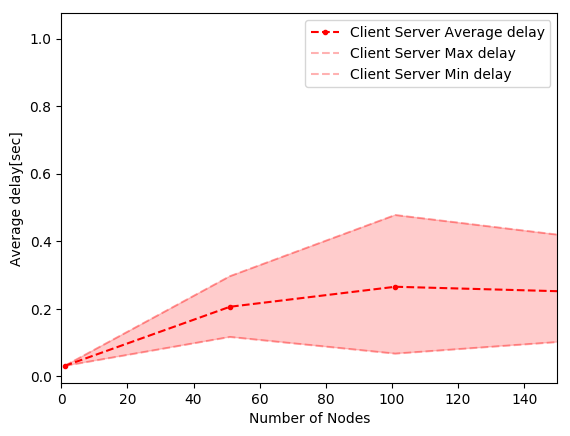
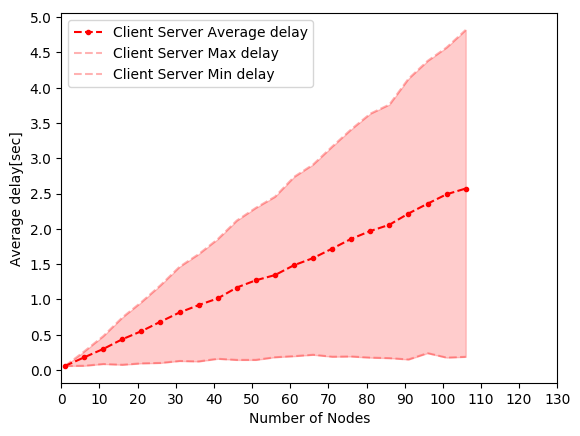
Transformed ipfs duplicate plotter into a program with cli. Probably not the best code, too many nested loops

diff --git a/evaluation_scripts/comparison_plotter.py b/evaluation_scripts/comparison_plotter.py
@@ -7,6 +7,12 @@ import argparse
 
 save_dir = './evaluation_scripts/Plots/'
 
+def linear_reg(xx,yy):
+    A = np.vstack([xx, np.ones(len(xx))]).T
+    m, c = np.linalg.lstsq(A, yy)[0]
+    y_fit = m*np.array(xx).astype(float) + c
+    return y_fit
+
 def parse_single_line(line, filepath, prv_users):
     d = json.loads(line)
     users = int(d['Users'])
@@ -41,11 +47,16 @@ def parse_file(filepath):
     print(user_no)
     return user_no, delay_avg, delay_std, delay_max, delay_min, results
 
-def plot(filepath,label,colour_,limit):
+def plot(filepath,label,colour_,limit, trendline):
     user_no, delay_avg, delay_std, delay_max, delay_min,_ = parse_file(filepath)
-    plt.plot(user_no[:limit], delay_avg[:limit],'o--', color=colour_, label=label + " Average delay",ms=3) #, yerr = delay_std, fmt='o' )
-    plt.plot(user_no[:limit], delay_max[:limit],'--', color=colour_,  label=label + " Max delay",alpha=0.3) 
-    plt.plot(user_no[:limit], delay_min[:limit],'--', color=colour_,label=label + " Min delay",alpha=0.3) 
+    if trendline:
+        y_trendline = linear_reg(user_no,delay_avg)
+        print(y_trendline)
+        plt.plot(user_no, y_trendline,'-', color=colour_, alpha=0.2, label= label + " Trendline")
+
+    plt.plot(user_no[:limit], delay_avg[:limit], 'o--', color=colour_, label=label + " Average delay",ms=3) #, yerr = delay_std, fmt='o' )
+    plt.plot(user_no[:limit], delay_max[:limit], '--',  color=colour_, label=label + " Max delay",alpha=0.3) 
+    plt.plot(user_no[:limit], delay_min[:limit], '--',  color=colour_, label=label + " Min delay",alpha=0.3) 
     plt.fill_between(user_no[:limit],
                      delay_max[:limit],
                      delay_min[:limit],
@@ -54,6 +65,7 @@ def plot(filepath,label,colour_,limit):
     plt.locator_params(nbins=14)
     plt.xlabel('Number of Nodes')
     plt.ylabel('Average delay[sec]')
+    print(type(limit))
     plt.xlim(0,limit)
 
 
@@ -65,14 +77,20 @@ def statistics(filepath):
 
 
 ipfs_path = './evaluation_scripts/datasets/ipfs_results.json'
-server_path = './evaluation_scripts/datasets/server_results_new.json'
+server_path = './evaluation_scripts/datasets/server_results_single.json'
+server_path_multi = './evaluation_scripts/datasets/server_results_multi.json'
 bittorent_path = './evaluation_scripts/datasets/bittorent_results.json'
+ipfs_with_delay = './evaluation_scripts/datasets/ipfs_duplicates_lat.json'
 
-# USAGE: ./evaluation_scripts/results_parser.py -o ipfs-vs-BitTorrent -IPFS -BitTorrent -save
+# USAGE: ./evaluation_scripts/results_parser.py -o ipfs-vs-BitTorrent -IPFS -BitTorrent
 if __name__ == '__main__':
     parser = argparse.ArgumentParser(description='Command Line Interface')
     parser.add_argument('-o', type=str, nargs='?',
                         help="Save output to the specified directory")
+    parser.add_argument('-d',action='store_true', default = False,
+                        help="Show simulation with lattency added")
+    parser.add_argument('-trend',action='store_true', default = False,
+                        help="Show performance trendline") 
     parser.add_argument('-IPFS', action='store_true', default = False,
                     help='Show IPFS performance')
     parser.add_argument('-user_limit', type=int, nargs='?', default = 120,
@@ -87,15 +105,18 @@ if __name__ == '__main__':
     fig, ax1 = plt.subplots()
 
     if args.IPFS:
-        plot(ipfs_path, "IPFS",'blue',args.user_limit)
+        plot(ipfs_path, "IPFS",'blue',args.user_limit, args.trend)
+        if args.d:
+            plot(ipfs_with_delay, "IPFS Latency",'green',args.user_limit, args.trend)
         if args.statistics:
             statistics(ipfs_path)
     if args.BitTorrent:
-        plot(bittorent_path,"BitTorrent",'orange',args.user_limit)
+        plot(bittorent_path,"BitTorrent",'orange',args.user_limit, args.trend)
         if args.statistics:
             statistics(bittorent_path)
     if args.client_server:
-        plot(server_path,"Client Server",'red',args.user_limit)
+        plot(server_path,"Client Server",'red',args.user_limit, args.trend)
+        #plot(server_path_multi,"Client Server Multithreaded",'green', args.user_limit)
 
     plt.legend()
     if args.o != None:

diff --git a/evaluation_scripts/ipfs_duplicate_plotter.py b/evaluation_scripts/ipfs_duplicate_plotter.py
@@ -1,6 +1,7 @@
 import matplotlib.pyplot as plt
 import json
 import numpy as np
+import argparse
 
 save_dir = './evaluation_scripts/Plots/'
 
@@ -21,27 +22,45 @@ def parse_file(file):
     return users, duplicate_blocks
 
 def linear_reg(xx,yy):
-    A = np.vstack([x, np.ones(len(x))]).T
-    m, c = np.linalg.lstsq(A, Y)[0]
-    y_fit = m*np.array(x).astype(float) + c
+    A = np.vstack([xx, np.ones(len(xx))]).T
+    m, c = np.linalg.lstsq(A, yy)[0]
+    y_fit = m*np.array(xx).astype(float) + c
     return y_fit
 
+# Usage: evaluation_scripts/ipfs_duplicate_plotter.py -d -trend
+if __name__ == '__main__':
+    parser = argparse.ArgumentParser(description='Command Line Interface')
+    parser.add_argument('-o', type=str, nargs='?',
+                        help="Save output to the specified directory")
+    parser.add_argument('-d',action='store_true', default = False,
+                        help="Show simulation with lattency added")
+    parser.add_argument('-trend',action='store_true', default = False,
+                        help="Show performance trendline") 
 
-x,Y = parse_file('./evaluation_scripts/datasets/ipfs_duplicates_sim.json')
+    args = parser.parse_args()
+    fig, ax1 = plt.subplots()
+    # If you want to plot the dataset with latency
+    if args.d:
+        xx,YY = parse_file('./evaluation_scripts/datasets/ipfs_duplicates_lat.json')
+        plt.plot(xx,YY,'x', color='orange', label='Latency Data Points')
+        # If you want to add a trendline
+        if args.trend:
+            yy_fit = linear_reg(xx,YY)
+            plt.plot(xx, yy_fit, color='orange', alpha=0.8, label='Latency Trendline')
 
-xx,YY = parse_file('./evaluation_scripts/datasets/ipfs_duplicates_lat.json')
+    # Plot the standard IPFS duplicate blocks
+    x,Y = parse_file('./evaluation_scripts/datasets/ipfs_duplicates_sim.json')
+    plt.plot(x,Y,'x', color = 'red', label='Zero latency Data Points')
+    # If you want to add a trendline
+    if args.trend:
+        y_fit = linear_reg(x,Y)
+        plt.plot(x, y_fit, color = 'red', alpha=0.8, label='Zero Latency Trendline')
 
-y_fit = linear_reg(x,Y)
-#yy_fit = linear_reg(xx,YY)
-
-fig = plt.figure()   
-plt.plot(x,Y,'x', label='Zero latency Data Points')
-plt.plot(x, y_fit, 'r', alpha=0.8, label='Zero Latency Linear Regression Fit')
-plt.plot(xx,YY,'x', label='Latency Data Points')
-#plt.plot(xx, yy_fit, 'r', alpha=0.8, label='Latency Linear Regression Fit')
-
-plt.ylabel('Duplicate Blocks')
-plt.xlabel('Number of users in the swarm')
-plt.legend()
-plt.show()
-#fig.savefig(save_dir + 'ipfs_duplicates.png', dpi=fig.dpi,bbox_inches='tight')
+    # Add labels to axis and plot
+    plt.ylabel('Duplicate Blocks')
+    plt.xlabel('Number of users in the swarm')
+    plt.legend()
+    if args.o != None:
+        fig.savefig(save_dir + args.o +'.png',bbox_inches='tight') 
+    else:
+        plt.show()

diff --git a/driver_code/server_simulation/user.py b/driver_code/server_simulation/user.py
@@ -2,7 +2,6 @@
 import requests
 import threading
 import time
-import threading
 import argparse
 import datetime
 import numpy as np
@@ -15,7 +14,6 @@ user_id = []
 
 # Define a function for the thread
 def make_request(id):
-    print("I was here")
     start = time.time()
     r = requests.post("http://127.0.0.1:8020/test/")
     end = time.time()
@@ -37,8 +35,8 @@ def make_simulation(size):
             print ("Error: unable to start thread - reached thread {}".format(i))
             size = i
 
-    for i in range(0,i):
-        thread_list[i].join()
+    for thread in thread_list:
+        thread.join()
 
 
 def parse_results(results,thread_no):
